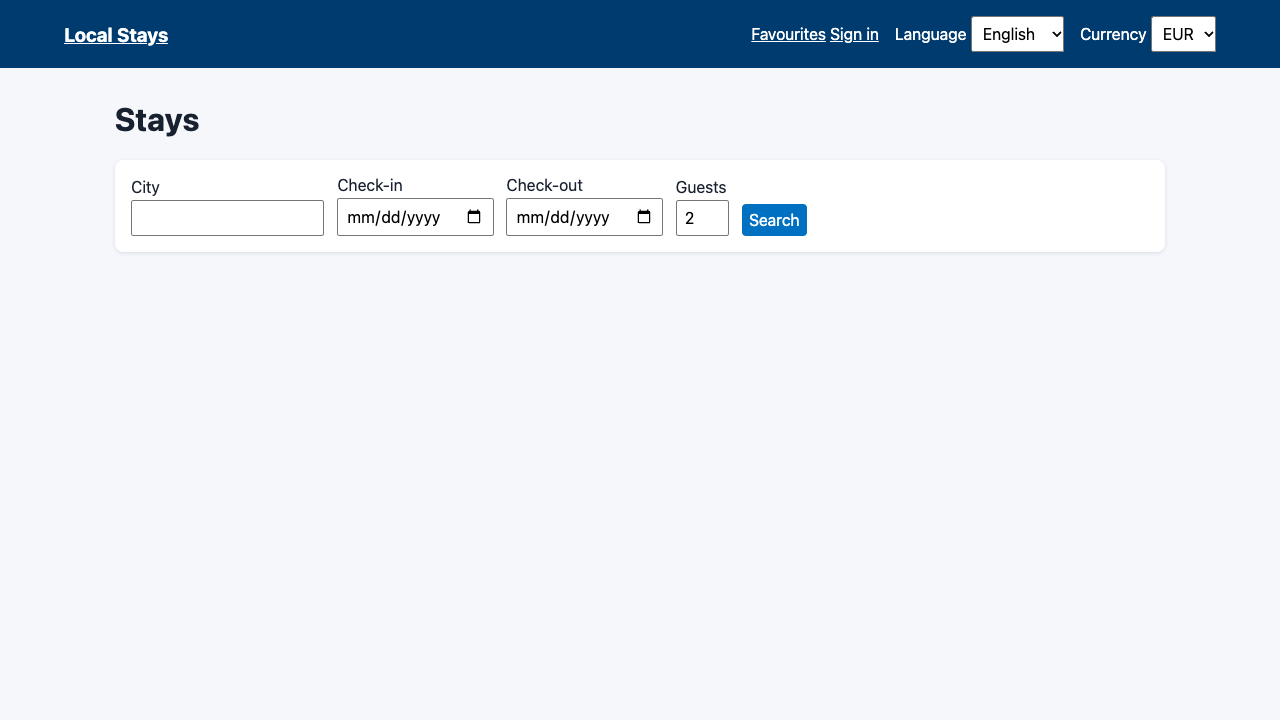
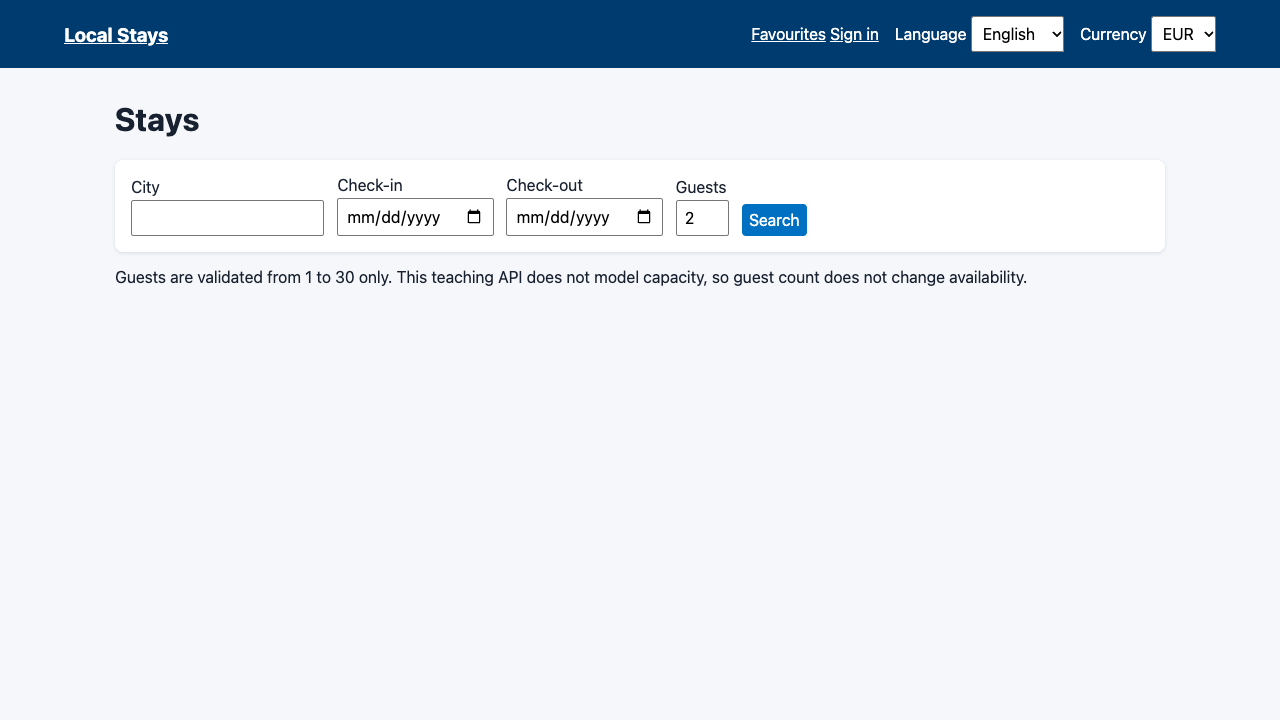
fix: complete local UI session and result states

Changed region(s): [[0.0938, 0.3667, 0.8125, 0.3972]]

diff --git a/ui/app.js b/ui/app.js
@@ -2,6 +2,7 @@
   'use strict';
   const savedUser = sessionStorage.getItem('local-stays-user');
   const state = { results: [], wishlist: [], user: savedUser ? JSON.parse(savedUser) : null, query: null };
+  let latestSearch = 0;
   const $ = (id) => document.getElementById(id);
   const translations = { en: { title: 'Stays', city: 'City', checkin: 'Check-in', checkout: 'Check-out', guests: 'Guests', search: 'Search' }, es: { title: 'Alojamientos', city: 'Ciudad', checkin: 'Entrada', checkout: 'Salida', guests: 'Huéspedes', search: 'Buscar' }, de: { title: 'Unterkünfte', city: 'Stadt', checkin: 'Anreise', checkout: 'Abreise', guests: 'Gäste', search: 'Suchen' } };
 
@@ -37,6 +38,22 @@
   function renderFavorites() {
     const favorites = state.results.filter((hotel) => state.wishlist.includes(hotel.id)); $('favorites-results').replaceChildren(...favorites.map(card)); show('favorites-empty', favorites.length === 0);
   }
+  function renderSessionControls() {
+    show('logout', Boolean(state.user));
+    $('sign-in-link').hidden = Boolean(state.user);
+  }
+  async function loadFavorites() {
+    if (!state.user) { state.wishlist = []; renderFavorites(); return; }
+    try {
+      const [wishlist, hotels] = await Promise.all([
+        api('/api/wishlist'),
+        api(`/api/hotels?currency=${encodeURIComponent($('currency').value)}`),
+      ]);
+      state.wishlist = wishlist.wishlist;
+      state.results = hotels;
+      renderFavorites();
+    } catch (error) { message('results-error', error.message); }
+  }
   async function toggleWishlist(hotelId) {
     if (!state.user) { window.history.pushState({}, '', '/login'); renderRoute(); message('login-error', 'Sign in before saving a stay.'); return; }
     try {
@@ -48,12 +65,18 @@
     const city = $('city').value.trim(); const checkin = $('checkin').value; const checkout = $('checkout').value; const adults = Number($('adults').value);
     if (!city || !checkin || !checkout || !Number.isInteger(adults) || adults < 1 || adults > 30) return message('search-error', 'Enter a city, valid dates, and 1 to 30 guests.');
     if (checkout <= checkin) return message('search-error', 'Check-out must be later than check-in.');
-    message('search-error'); message('results-error'); show('loading', true); state.query = { city, checkin, checkout, adults };
+    const requestId = ++latestSearch;
+    message('search-error'); message('results-error'); show('loading', true); show('results', true); state.query = { city, checkin, checkout, adults };
     const params = new URLSearchParams({ city, checkin, checkout, currency: $('currency').value });
     const min = $('min-price').value; const max = $('max-price').value; if (min) params.set('min_price', min); if (max) params.set('max_price', max);
-    try { state.results = await api(`/api/hotels?${params}`); $('filters').hidden = false; window.history.pushState({}, '', `/searchresults.html?${params}`); renderResults(); }
-    catch (error) { state.results = []; renderResults(); message('results-error', error.message); }
-    finally { show('loading', false); }
+    try {
+      const hotels = await api(`/api/hotels?${params}`);
+      if (requestId !== latestSearch) return;
+      state.results = hotels; $('filters').hidden = false; window.history.pushState({}, '', `/searchresults.html?${params}`); renderResults();
+    } catch (error) {
+      if (requestId !== latestSearch) return;
+      state.results = []; renderResults(); message('results-error', error.message);
+    } finally { if (requestId === latestSearch) show('loading', false); }
   }
   function loadQueryFromUrl() {
     const params = new URLSearchParams(window.location.search); if (!params.get('city')) return;
@@ -63,7 +86,7 @@
     const path = window.location.pathname; ['search-view', 'filters', 'results', 'login-view', 'account-view', 'favorites-view', 'contact-view'].forEach((id) => show(id, false));
     if (path === '/login') return show('login-view', true);
     if (path === '/account') { show('account-view', true); $('account-greeting').textContent = state.user ? `Signed in as ${state.user.name} (${state.user.email})` : 'No active local session.'; return; }
-    if (path === '/favorites') { show('favorites-view', true); renderFavorites(); return; }
+    if (path === '/favorites') { show('favorites-view', true); loadFavorites(); return; }
     if (path === '/contact') return show('contact-view', true);
     show('search-view', true); show('results', state.query !== null); show('filters', state.query !== null); if (path === '/searchresults.html') loadQueryFromUrl();
   }
@@ -72,8 +95,9 @@
   $('apply-price').addEventListener('click', search);
   $('currency').addEventListener('change', () => { if (state.query) search(); });
   $('language').addEventListener('change', () => { const text = translations[$('language').value]; document.documentElement.lang = $('language').value; document.querySelectorAll('[data-i18n]').forEach((element) => { element.textContent = text[element.dataset.i18n]; }); });
-  $('login-form').addEventListener('submit', async (event) => { event.preventDefault(); const email = $('email').value.trim(); const password = $('password').value; if (!email || !password) return message('login-error', 'Email and password are required.'); try { const response = await api('/api/login', { method: 'POST', headers: { 'content-type': 'application/json' }, body: JSON.stringify({ email, password }) }); state.user = response.user; sessionStorage.setItem('local-stays-user', JSON.stringify(response.user)); message('login-error'); window.history.pushState({}, '', '/account'); renderRoute(); } catch (error) { message('login-error', error.message); } });
+  $('login-form').addEventListener('submit', async (event) => { event.preventDefault(); const email = $('email').value.trim(); const password = $('password').value; if (!email || !password) return message('login-error', 'Email and password are required.'); try { const response = await api('/api/login', { method: 'POST', headers: { 'content-type': 'application/json' }, body: JSON.stringify({ email, password }) }); state.user = response.user; sessionStorage.setItem('local-stays-user', JSON.stringify(response.user)); renderSessionControls(); message('login-error'); window.history.pushState({}, '', '/account'); renderRoute(); } catch (error) { message('login-error', error.message); } });
+  $('logout').addEventListener('click', () => { state.user = null; state.wishlist = []; sessionStorage.removeItem('local-stays-user'); renderSessionControls(); window.history.pushState({}, '', '/'); renderRoute(); });
   $('contact-form').addEventListener('submit', (event) => { event.preventDefault(); const valid = $('contact-name').value.trim() && $('contact-message').value.trim(); message('contact-error', valid ? '' : 'Name and message are required.'); });
   document.querySelectorAll('a[href^="/"]').forEach((link) => link.addEventListener('click', (event) => { event.preventDefault(); window.history.pushState({}, '', link.getAttribute('href')); renderRoute(); }));
-  window.addEventListener('popstate', renderRoute); renderRoute();
+  window.addEventListener('popstate', renderRoute); renderSessionControls(); renderRoute();
 })();

diff --git a/ui/index.html b/ui/index.html
@@ -12,7 +12,8 @@
       <a href="/" class="brand" data-testid="home-link">Local Stays</a>
       <nav aria-label="Primary navigation">
         <a href="/favorites" data-testid="favorites-link">Favourites</a>
-        <a href="/login" data-testid="sign-in-link">Sign in</a>
+        <a id="sign-in-link" href="/login" data-testid="sign-in-link">Sign in</a>
+        <button id="logout" type="button" hidden data-testid="logout-button">Sign out</button>
       </nav>
       <label>Language <select id="language" data-testid="header-language-picker-trigger" aria-label="Language"><option value="en">English</option><option value="es">Español</option><option value="de">Deutsch</option></select></label>
       <label>Currency <select id="currency" data-testid="header-currency-picker-trigger" aria-label="Currency"><option value="EUR">EUR</option><option value="USD">USD</option><option value="GBP">GBP</option></select></label>
@@ -24,9 +25,10 @@
           <div><label for="city" data-i18n="city">City</label><input id="city" name="city" autocomplete="address-level2" required data-testid="search-city"></div>
           <div><label for="checkin" data-i18n="checkin">Check-in</label><input id="checkin" name="checkin" type="date" required data-testid="search-checkin"></div>
           <div><label for="checkout" data-i18n="checkout">Check-out</label><input id="checkout" name="checkout" type="date" required data-testid="search-checkout"></div>
-          <div><label for="adults" data-i18n="guests">Guests</label><input id="adults" name="adults" type="number" min="1" max="30" value="2" required data-testid="search-adults"></div>
+          <div><label for="adults" data-i18n="guests">Guests</label><input id="adults" name="adults" type="number" min="1" max="30" value="2" required aria-describedby="guest-note" data-testid="search-adults"></div>
           <button type="submit" data-testid="search-submit" data-i18n="search">Search</button>
         </form>
+        <p id="guest-note">Guests are validated from 1 to 30 only. This teaching API does not model capacity, so guest count does not change availability.</p>
         <p id="search-error" role="alert" class="message error" hidden></p>
       </section>
       <section id="filters" hidden aria-label="Search filters">

diff --git a/tests/contract/api-contract.test.js b/tests/contract/api-contract.test.js
@@ -176,10 +176,13 @@ test('fixed rates recalculate numeric prices and price filters use requested cur
 });
 
 test('reset restores seed reviews, wishlist, and deterministic review ids', async () => {
+  const emptyWishlist = await json(await request('/api/wishlist'));
+  assert.deepEqual(emptyWishlist.wishlist, []);
   const wishlistBeforeReset = await json(await request('/api/wishlist', {
     method: 'POST', body: JSON.stringify({ hotel_id: 123 }),
   }));
   assert.deepEqual(wishlistBeforeReset.wishlist, [123]);
+  assert.deepEqual((await json(await request('/api/wishlist'))).wishlist, [123]);
   assert.equal((await request('/api/hotel/321/reviews/1', { method: 'DELETE' })).status, 204);
   const firstCreated = await json(await request('/api/hotel/321/reviews', {
     method: 'POST', body: JSON.stringify({ rating: 4, comment: 'temporary' }),
@@ -193,6 +196,7 @@ test('reset restores seed reviews, wishlist, and deterministic review ids', asyn
     method: 'POST', body: JSON.stringify({ hotel_id: 456 }),
   }));
   assert.deepEqual(wishlistAfterReset.wishlist, [456]);
+  assert.deepEqual((await json(await request('/api/wishlist'))).wishlist, [456]);
   const createdAfterReset = await json(await request('/api/hotel/321/reviews', {
     method: 'POST', body: JSON.stringify({ rating: 4, comment: 'after reset' }),
   }));

diff --git a/mock-server/server.js b/mock-server/server.js
@@ -304,6 +304,8 @@ function createApp() {
     return res.status(200).json({ wishlist: [...wishlist] });
   });
 
+  app.get('/api/wishlist', (_req, res) => res.status(200).json({ wishlist: [...wishlist] }));
+
   app.delete('/api/wishlist/:id', (req, res) => {
     const id = parsePositiveId(req.params.id);
     if (!id) return apiError(res, 400, 'INVALID_ID', 'Hotel id must be a positive integer');

diff --git a/docs/stage-5-local-ui.md b/docs/stage-5-local-ui.md
@@ -7,11 +7,11 @@
 
 | UI-сценарий | Нужное поведение стенда | Поддержка API |
 | --- | --- | --- |
-| Поиск города/дат/гостей | Отправить город и обе даты, показать доступные карточки; проверять 1–30 гостей | `GET /api/hotels` поддерживает city/dates и серверную availability; параметра гостей нет |
+| Поиск города/дат/гостей | Отправить город и обе даты, показать доступные карточки; проверять 1–30 гостей и показывать disclosure | `GET /api/hotels` поддерживает city/dates и серверную availability; параметра гостей нет |
 | Валюта и диапазон цены | Запросить цену в выбранной валюте и показать ответ | `GET /api/hotels` применяет fixed rate и min/max после conversion |
 | Звёзды, Wi‑Fi, breakfast, sort | Сузить показанные карточки и отсортировать числа | ответ содержит `stars`, `amenities`, `price`; query filters/sort отсутствуют, поэтому это явная client-side обработка ответа |
 | Вход | Проверить email/password, показать account | `POST /api/login` c фиксированными test credentials |
-| Add/remove favourites | Менять кнопку и список избранного | `POST /api/wishlist`, `DELETE /api/wishlist/{id}`; server state in-memory |
+| Add/remove/reload favourites | Менять кнопку, reload списка и показывать logout | `GET/POST /api/wishlist`, `DELETE /api/wishlist/{id}`; server state in-memory |
 | Язык, invalid/empty form | Изменить labels, показать доступную ошибку | language/contact не являются API-функциями; реализованы локально в рамках feature |
 
 ## Противоречия и сознательные границы
@@ -20,9 +20,11 @@
   стенд полностью local и не обращается к внешнему сайту.
 - API не моделирует число гостей и capacity. UI валидирует допустимый диапазон
   `1..30`, но не выдаёт недостоверный результат availability per guest.
-- API не имеет `GET /wishlist`, ownership, token verification или persistent store.
-  В текущем browser session display user живёт в `sessionStorage`, а wishlist — до
-  restart/reset mock process. Это учебная авторизация, не security model.
+- API не имеет ownership, token verification или persistent store. `GET /wishlist`
+  даёт возможность восстановить текущий in-memory список после reload, но не делает
+  его пользовательским. Display user живёт в `sessionStorage`, а wishlist — до
+  restart/reset mock process. Sign out удаляет только local display session. Это
+  учебная авторизация, не security model.
 - State-transition feature с booking/checkout/cancel и AI draft `@WIP` не являются
   product requirements этапа 5. Они не переносились, `@WIP` не снимался.
 
@@ -31,11 +33,15 @@
 - `mock-server/server.js` раздаёт `ui/` на том же origin после API routes; API не
   менялся и контракт сохраняет совместимость.
 - `ui/index.html`, `ui/app.js`, `ui/styles.css` дают search, results, filters,
-  language, login, favourites, contact validation, loading/empty/error states,
-  keyboard-native controls, accessible labels and stable `data-testid`.
+  language, login/logout, reloadable favourites, contact validation,
+  loading/empty/error states, keyboard-native controls, accessible labels and
+  stable `data-testid`. Each new search has a sequence ID, so a late older response
+  cannot overwrite the latest result/error/loading state.
 - Currency and availability never duplicate server rules: change currency and
   price range perform a fresh `GET /api/hotels`. Amenity/star filtering and price
-  sorting are client-only and operate strictly on that response.
+  sorting are client-only and operate strictly on that response. The visible
+  guest note says that `1..30` is client validation only; guests are deliberately
+  not sent as a fictitious availability constraint.
 - `npm run ui:local` starts a child `mock-server/server.js`, polls declared
   `/health` for 10 s (configurable `UI_READY_TIMEOUT_MS`) and forwards SIGINT/SIGTERM.
   `npm run ui:start` is a simple foreground entrypoint where an external supervisor
@@ -51,13 +57,13 @@ service, or booking transaction was used.
 | --- | --- |
 | Search Paris, 2026-08-01 to 2026-08-05, 2 guests | three available Paris cards; dates reached API |
 | Select Free WiFi + Breakfast + 4 stars; select USD; lowest-price sort | one `Hotel Le Marais` card, `$198.08 USD`; filters/sort controls retain values |
-| Login test account | local `/account` shown after `POST /api/login` |
-| Search Rome; Save first; open Favourites; Remove | button changed Save → Remove, card appeared once, then empty-state `No saved stays yet.` appeared |
+| Login/logout test account | local `/account` shown after `POST /api/login`; Sign out clears tab session |
+| Search Rome; Save first; reload/open Favourites; Remove | `GET /api/wishlist` restores card after reload; then button changes Save → Remove and empty-state appears |
 
 ### Сохранённые screenshots
 
 - [Стартовая локальная страница](stage-5-screenshots/home.png) — доступные labels,
-  язык/currency selectors и search form.
+  язык/currency selectors, search form и visible guest-capacity disclosure.
 - [Пустое избранное](stage-5-screenshots/favorites-empty.png) — локальный empty state.
 
 Это статические browser screenshots стенда, сохранённые в репозитории как evidence.
@@ -82,7 +88,7 @@ login и add/remove; screenshots не являются UI-автоматизац
 | Command | Exit | Result |
 | --- | ---: | --- |
 | `npm run typecheck` | 0 | TypeScript compiled |
-| `npm run lint:api-contract` | 0 | OpenAPI valid; 4 pre-existing documented warnings |
+| `npm run lint:api-contract` | 0 | OpenAPI valid; pre-existing local-server/license/reset warnings plus GET wishlist response warning |
 | `npm run test:api:contract` | 0 | 10 passed |
 | real `api-all` against `localhost:13025` | 0 | 39 scenarios; JSON reports 0 failed steps |
 | `test:pw:dry-run` | 0 | 76 scenarios / 256 skipped steps; 0 undefined/ambiguous |
@@ -94,3 +100,26 @@ The first sandboxed contract-test attempt could not bind its temporary loopback
 listener (`EPERM`); the same unchanged command was then rerun with the local-listener
 permission shown above and passed. No test describes old unexecuted checks as passed.
 `@WIP` scenarios remain excluded.
+
+## Финальное ревью draft PR #5
+
+Относительно `main@9a380c8`, исходный expected head был
+`d036818f03685fbc730754cd0c700d85acf47ad5`. Ревью нашло и устранило только
+существенные пробелы этапа 5:
+
+- `GET /api/wishlist` документирован и проверен контрактным тестом; избранное
+  восстанавливается после browser reload, но остаётся общим in-memory ресурсом без
+  ownership.
+- Login теперь показывает Sign out, а logout удаляет только display user из
+  `sessionStorage`; это не выдаётся за server-side session invalidation.
+- При каждом search создаётся sequence ID: поздний ответ старого request не может
+  перезаписать results/error/loading последнего search.
+- UI показывает связанную с guest field подсказку: validation `1..30` существует,
+  но guests не участвуют в API availability и не моделируют capacity.
+- Исправлено явное раскрытие results после search; до этого CSS fix для `hidden`
+  мог скрыть успешные карточки. Chrome подтвердил поиск, guest error, login/logout
+  и reload избранного.
+
+После этих изменений выполнены только `typecheck`, OpenAPI lint и contract tests;
+полный UI automation suite по-прежнему не создан и относится к stage 6. Local UI
+посещал только `localhost`; код не содержит Booking.com URL или внешние ресурсы.

diff --git a/README.md b/README.md
@@ -221,13 +221,15 @@ the received response. It never calculates exchange rates or availability in the
 browser.
 
 Test-only credentials are `testuser@example.com` / `correct_password`. A successful
-login is an in-memory teaching API response; the browser retains just the display
-user in `sessionStorage` for its tab. Wishlist state belongs to the running mock
-process and is not tied to an authenticated user. Restart the process, or run
+login stores only the display user in tab-scoped `sessionStorage`; **Sign out** clears
+that local display session. Wishlist state can be reloaded while signed in, but belongs
+to the running mock process and is not tied to an authenticated user. Restart the
+process, or run
 `curl -X POST http://localhost:3001/api/test/reset`, to restore the seed state.
-The UI validates 1–30 guests but the existing API has no guest-capacity parameter;
-it therefore does not claim per-hotel guest availability. Bookings, checkout and
-cancellation are intentionally not implemented.
+The search form visibly states that guests are validated only from 1 to 30: the
+existing API has no guest-capacity parameter, so this input does not change
+availability and the UI does not claim otherwise. Bookings, checkout and cancellation
+are intentionally not implemented.
 
 To use a different isolated port: `MOCK_PORT=13025 npm run ui:local`. Set
 `UI_READY_TIMEOUT_MS` (milliseconds) only when a longer readiness wait is needed.

diff --git a/docs/api-contract.md b/docs/api-contract.md
@@ -60,5 +60,7 @@ Seed price хранится в EUR. Коды валют регистрозави
 `100`. Перезапуск процесса приводит к тому же состоянию. Endpoint не предназначен
 для production API.
 
-Wishlist оставлен в прежней учебной модели и не расширяется правилами review CRUD;
-его усиление относится к последующим согласованным работам, а не к этому контракту.
+Wishlist оставлен в учебной модели: `GET /api/wishlist` возвращает текущий список ID,
+а POST/DELETE возвращают тот же envelope после изменения. У него нет ownership,
+проверки token или persistence; он сбрасывается через reset/restart. Его усиление
+относится к последующим согласованным работам, а не к этому контракту.
